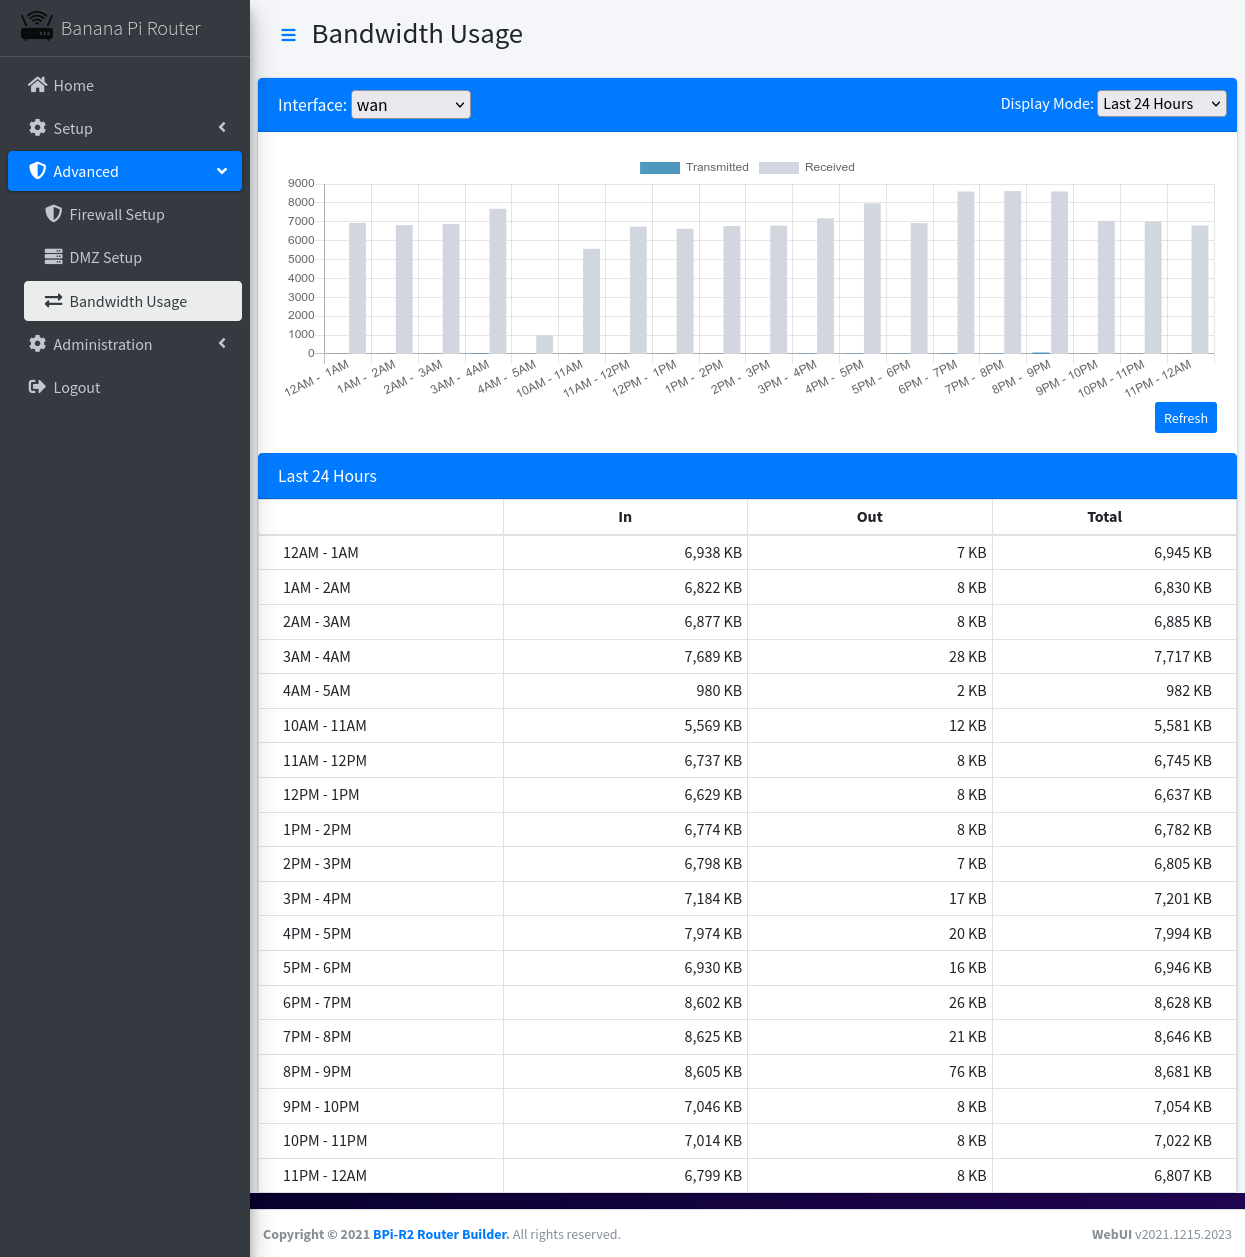
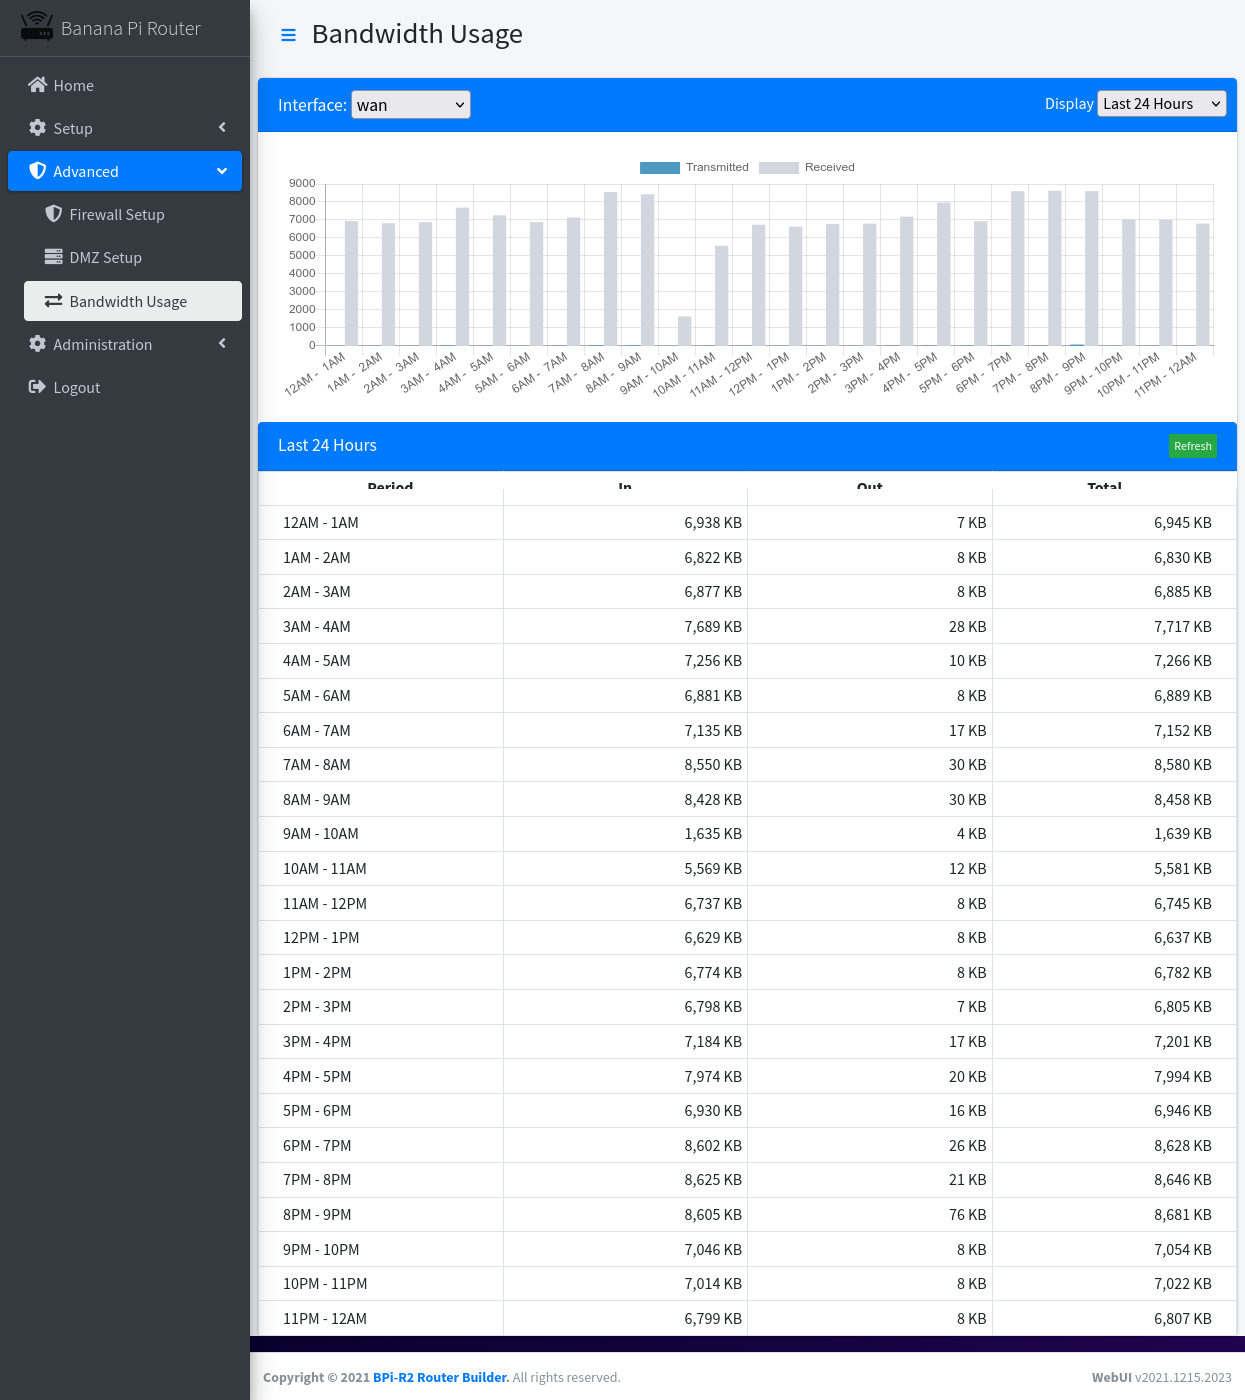
Updated WebUI Advanced / Bandwidth Usage

Changed region(s): [[0.0, 0.0, 1.0, 0.9928]]

diff --git a/router/js/site-advanced.js b/router/js/site-advanced.js
@@ -138,8 +138,10 @@ function DMZ_Apply()
 //======================================================================================================
 // Javascript functions for "Advanced / Bandwidth"
 //======================================================================================================
-function Init_Bandwidth()
+function Init_Bandwidth(tx, rx)
 {
+	barTX = tx;
+	barRX = rx;
 	barChart = false;
 	$("#update_chart").click(Bandwidth_Update).click();
 	$("#interface").change(Bandwidth_Update);
@@ -169,7 +171,7 @@ function Bandwidth_Update()
 			  datasets: 
 				[
 					{
-						label               : 'Transmitted',
+						label               : barTX,
 						backgroundColor     : 'rgba(60,141,188,0.9)',
 						borderColor         : 'rgba(60,141,188,0.8)',
 						pointRadius          : false,
@@ -180,7 +182,7 @@ function Bandwidth_Update()
 						data                : Object.values(data.tx)
 					},
 					{
-						label               : 'Received',
+						label               : barRX,
 						backgroundColor     : 'rgba(210, 214, 222, 1)',
 						borderColor         : 'rgba(210, 214, 222, 1)',
 						pointRadius         : false,

diff --git a/router/includes/advanced-bandwidth.php b/router/includes/advanced-bandwidth.php
@@ -24,25 +24,24 @@ if (isset($_POST['action']))
 		$iface = option_allowed('iface', array_keys(get_network_adapters()));
 		$data = array(
 			'title' => ($_POST['action'] == 'hour' ? 'Last 24 Hours' : ($_POST['action'] == 'day' ? 'Last 30 Days' : 'Last 12 Months')),
-			'table' => '',
 		);
-		$data['rx'] = $data['tx'] = $data['label'] = array();
+		$data['table'] = $data['rx'] = $data['tx'] = $data['label'] = array();
 		foreach (explode("\n", @shell_exec("vnstat --dumpdb -i " . $iface)) as $line)
 		{
 			$d = explode(';', trim($line));
 			if ($_POST['action'] == 'day' && $d[0] == 'd' && !empty($d[2]))
 			{
-				$data['label'][$d[1]] = strftime($L['datefmt_days'],$d[2]);
+				$data['label'][$d[1]] = strftime($L['datefmt_days'], $d[2]);
 				$data['rx'][$d[1]] = $d[3] * 1024 + $d[5];
 				$data['tx'][$d[1]] = $d[4] * 1024 + $d[6];
-				$data['table'] .= '<tr><td>' . $data['label'][$d[1]] . '</td><td><span class="float-right">' . number_format($data['rx'][$d[1]]) . ' KB</span></td><td><span class="float-right">' . number_format($data['tx'][$d[1]]) . ' KB</span></td><td><span class="float-right">' . number_format($data['tx'][$d[1]] + $data['rx'][$d[1]]) . ' KB</span></td></tr>';
+				$data['table'][$d[1]] = '<tr><td>' . $data['label'][$d[1]] . '</td><td><span class="float-right">' . number_format($data['rx'][$d[1]]) . ' KB</span></td><td><span class="float-right">' . number_format($data['tx'][$d[1]]) . ' KB</span></td><td><span class="float-right">' . number_format($data['tx'][$d[1]] + $data['rx'][$d[1]]) . ' KB</span></td></tr>';
 			}
 			if ($_POST['action'] == 'month' && $d[0] == 'm' && !empty($d[2]))
 			{
 				$data['label'][$d[1]] = strftime($L['datefmt_months'], $d[2]);
 				$data['rx'][$d[1]] = $d[3] * 1024 + $d[5];
 				$data['tx'][$d[1]] = $d[4] * 1024 + $d[6];
-				$data['table'] .= '<tr><td>' . $data['label'][$d[1]] . '</td><td><span class="float-right">' . number_format($data['rx'][$d[1]]) . ' KB</span></td><td><span class="float-right">' . number_format($data['tx'][$d[1]]) . ' KB</span></td><td><span class="float-right">' . number_format($data['tx'][$d[1]] + $data['rx'][$d[1]]) . ' KB</span></td></tr>';
+				$data['table'][$d[1]] = '<tr><td>' . $data['label'][$d[1]] . '</td><td><span class="float-right">' . number_format($data['rx'][$d[1]]) . ' KB</span></td><td><span class="float-right">' . number_format($data['tx'][$d[1]]) . ' KB</span></td><td><span class="float-right">' . number_format($data['tx'][$d[1]] + $data['rx'][$d[1]]) . ' KB</span></td></tr>';
 			}
 			if ($_POST['action'] == 'hour' && $d[0] == 'h' && !empty($d[2]))
 			{
@@ -50,7 +49,7 @@ if (isset($_POST['action']))
 			    $data['label'][$d[1]] = strftime($L['datefmt_hours'], $st).' - '.strftime($L['datefmt_hours'], $st + 3600);
 				$data['rx'][$d[1]] = $d[3];
 				$data['tx'][$d[1]] = $d[4];
-				$data['table'] .= '<tr><td>' . $data['label'][$d[1]] . '</td><td><span class="float-right">' . number_format($data['rx'][$d[1]]) . ' KB</span></td><td><span class="float-right">' . number_format($data['tx'][$d[1]]) . ' KB</span></td><td><span class="float-right">' . number_format($data['tx'][$d[1]] + $data['rx'][$d[1]]) . ' KB</span></td></tr>';
+				$data['table'][$d[1]] = '<tr><td>' . $data['label'][$d[1]] . '</td><td><span class="float-right">' . number_format($data['rx'][$d[1]]) . ' KB</span></td><td><span class="float-right">' . number_format($data['tx'][$d[1]]) . ' KB</span></td><td><span class="float-right">' . number_format($data['tx'][$d[1]] + $data['rx'][$d[1]]) . ' KB</span></td></tr>';
 			}
 		}
 		header('Content-type: application/json');
@@ -67,6 +66,7 @@ if (isset($_POST['action']))
 #########################################################################################
 site_menu();
 $_POST['iface'] = isset($_POST['iface']) ? $_POST['iface'] : 'wan';
+$_POST['mode'] = isset($_POST['mode']) ? $_POST['mode'] : 'hour';
 echo '
 <div class="card card-primary">
 	<div class="card-header">
@@ -76,16 +76,16 @@ foreach (get_network_adapters() as $iface => $dummy)
 {
 	if (!preg_match('/^(docker.+|lo|sit.+|eth0)$/', $iface))
 		echo '
-				<option value="', $iface, '"', $_POST['iface'] == $iface ? ' selected' : '', '>' . $iface . '</option>';
+				<option value="', $iface, '"', $_POST['iface'] == $iface ? ' selected="selected"' : '', '>' . $iface . '</option>';
 }
 echo '
 			</select>
 		</h3>
 		<div class="card-tools">
-			Display Mode: <select id="mode">
-				<option value="hour">Last 24 Hours</option>
-				<option value="day">Last 30 Days</option>
-				<option value="month">Last 12 Months</option>
+			Display <select id="mode">
+				<option value="hour"', $_POST['mode'] == 'hour' ? ' selected="selected"' : '', '>Last 24 Hours</option>
+				<option value="day"', $_POST['mode'] == 'day' ? ' selected="selected"' : '', '>Last 30 Days</option>
+				<option value="month"', $_POST['mode'] == 'month' ? ' selected="selected"' : '', '>Last 12 Months</option>
 			</select>
 		</div>
 	</div>
@@ -93,18 +93,16 @@ echo '
 		<div class="chart">
 			<canvas id="barChart" style="min-height: 250px; height: 250px; max-height: 250px; max-width: 100%;"></canvas>
 		</div>
-		<div>
-			<a href="javascript:void(0);"><button type="button" id="update_chart" class="btn btn-sm btn-primary float-right">Refresh</button></a>
-		</div>
 	</div>
 	<div class="card-header">
-		<h3 class="card-title" id="table_header"</h3>
+		<h3 class="card-title" id="table_header">', $_POST['mode'] == 'hour' ? 'Last 24 Hours' : ($_POST['mode'] == 'day' ? 'Last 30 Days' : 'Last 12 Months'), '</h3>
+		<button type="button" class="btn btn-xs btn-success float-right" id="update_chart">Refresh</button>
 	</div>
-	<div class="card-body p-0">
-		<table class="table table-sm table-bordered">
+	<div class="card-body table-responsive p-0">
+		<table class="table table-head-fixed text-nowrap table-sm table-bordered">
 			<thead>
 				<tr>
-					<th width="25%">&nbsp;</th>
+					<th width="25%"><center>Period</center></th>
 					<th width="25%"><center>In</center></th>
 					<th width="25%"><center>Out</center></th>
 					<th width="25%"><center>Total</center></th>
